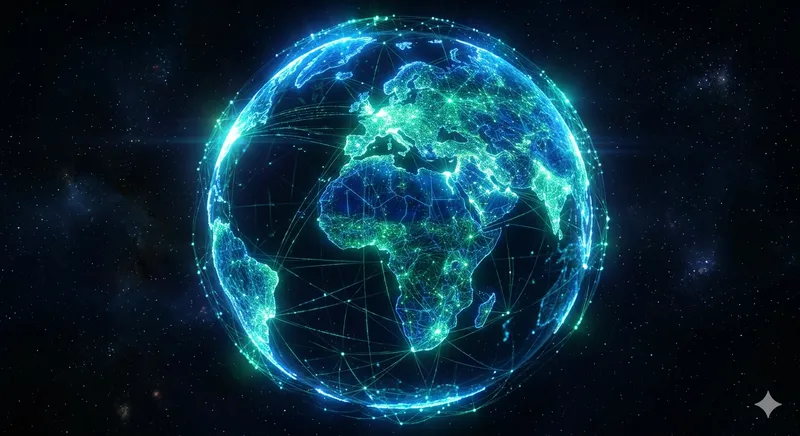
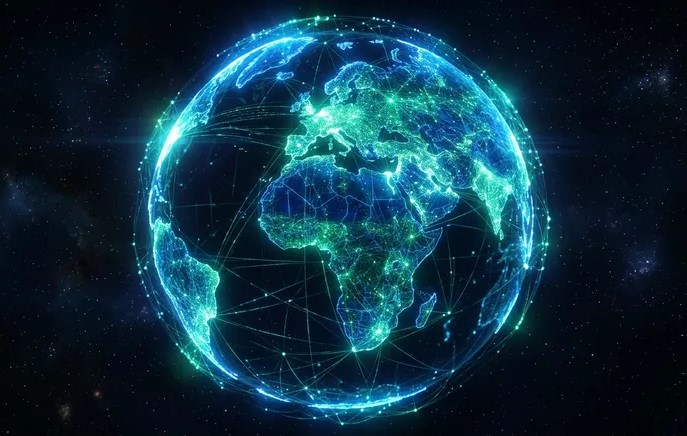
change the bucket and also the url in the database for the blogs images

diff --git a/backend/main/src/services/S3Service.ts b/backend/main/src/services/S3Service.ts
@@ -15,10 +15,14 @@ import { Readable } from 'stream';
 export class S3Service {
   private s3Client: S3Client;
   private bucketName: string;
+  private blogBucketName: string;
+  private blogCloudFrontUrl: string;
   private region: string;
 
   constructor() {
     this.bucketName = env.aws.s3Bucket;
+    this.blogBucketName = env.aws.blogS3Bucket;
+    this.blogCloudFrontUrl = env.aws.blogCloudFrontUrl;
     this.region = env.aws.region;
 
     this.s3Client = new S3Client({
@@ -192,13 +196,13 @@ export class S3Service {
   }
 
   /**
-   * Upload a blog image to S3 under the blog-images/ prefix and return a pre-signed URL
+   * Upload a blog image to S3 under the render-blg-images/ prefix and return a pre-signed URL or CloudFront URL
    */
   async uploadBlogImage(file: Express.Multer.File): Promise<string> {
-    const fileKey = `blog-images/${Date.now()}-${file.originalname.replace(/\s+/g, '-')}`;
+    const fileKey = `render-blg-images/${Date.now()}-${file.originalname.replace(/\s+/g, '-')}`;
 
     const command = new PutObjectCommand({
-      Bucket: this.bucketName,
+      Bucket: this.blogBucketName,
       Key: fileKey,
       Body: file.buffer,
       ContentType: file.mimetype,
@@ -206,15 +210,14 @@ export class S3Service {
 
     await this.s3Client.send(command);
 
-    // Use CloudFront domain if configured, otherwise fall back to pre-signed URL
-    const cloudfrontDomain = process.env.CLOUDFRONT_DOMAIN;
-    if (cloudfrontDomain) {
-      return `${cloudfrontDomain.replace(/\/$/, '')}/${fileKey}`;
+    // Use CloudFront URL if configured
+    if (this.blogCloudFrontUrl) {
+      return `${this.blogCloudFrontUrl.replace(/\/$/, '')}/${fileKey}`;
     }
 
-    // Fallback: 7-day pre-signed URL
+    // Fallback: 7-day pre-signed URL using the blog bucket
     const getCommand = new GetObjectCommand({
-      Bucket: this.bucketName,
+      Bucket: this.blogBucketName,
       Key: fileKey,
     });
     return getSignedUrl(this.s3Client, getCommand, { expiresIn: 604800 });

diff --git a/backend/main/src/config/env.ts b/backend/main/src/config/env.ts
@@ -38,6 +38,8 @@ export const env = {
     secretAccessKey: process.env.AWS_SECRET_ACCESS_KEY || '',
     region: process.env.AWS_REGION || 'ap-south-1',
     s3Bucket: process.env.S3_BUCKET_NAME || 'blendfarm-renders',
+    blogS3Bucket: process.env.BLOG_S3_BUCKET_NAME || 'web-assets-s3-0326',
+    blogCloudFrontUrl: process.env.BLOG_CLOUDFRONT_URL || 'https://d5nejbnryt4r3.cloudfront.net/',
   },
 
   // Security